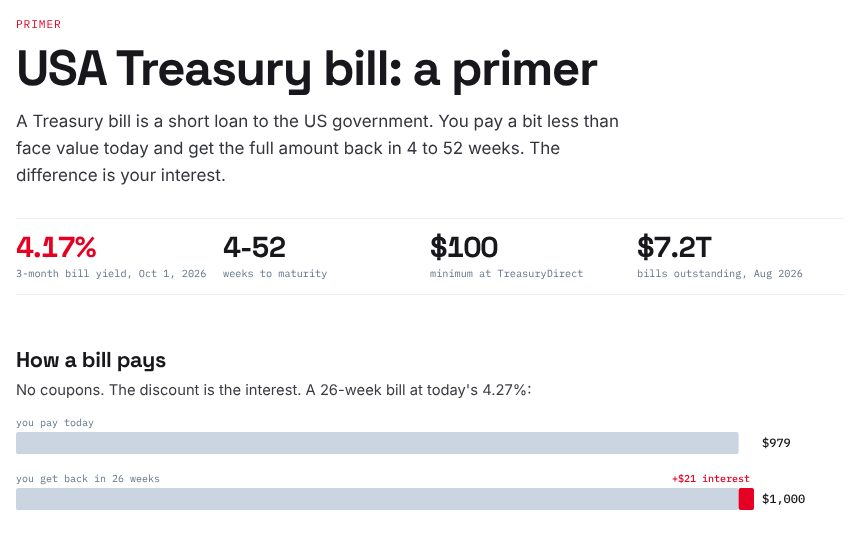
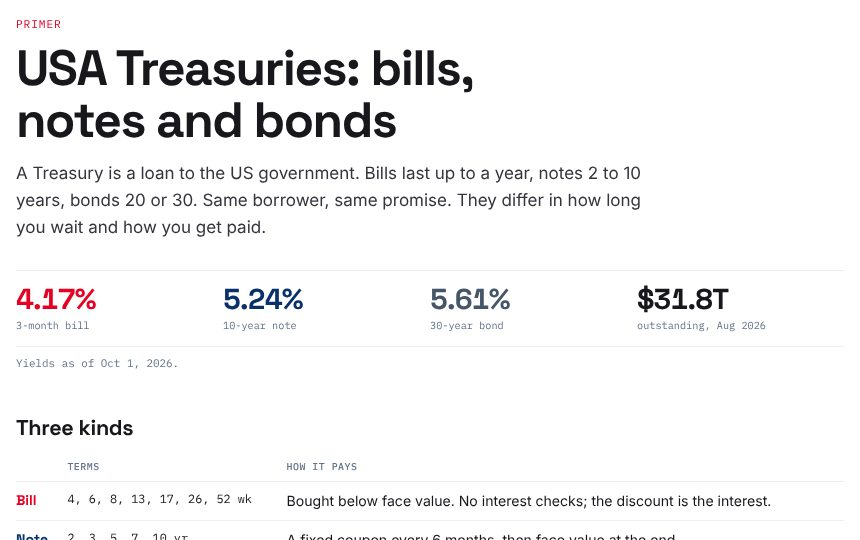
Treasury primer: cover bills, notes and bonds; retitle
Claude-Session: https://claude.ai/code/session_01VA4LwkdaSM29eQoFAYy22u

diff --git a/posts/2026-10-04-treasury-bills/index.html b/posts/2026-10-04-treasury-bills/index.html
@@ -4,14 +4,14 @@
 <meta charset="UTF-8">
 <meta name="viewport" content="width=device-width, initial-scale=1.0">
 <meta name="author" content="Rahul">
-<title>USA Treasury bill: a primer | Rahul's Site</title>
-<meta name="description" content="What a US Treasury bill is, how it pays, what it yields today, how much exists, and 90 years of the 3-month bill rate.">
+<title>USA Treasuries: bills, notes and bonds | Rahul's Site</title>
+<meta name="description" content="What US Treasury bills, notes and bonds are, how each pays you, what they yield today, how their prices move, and 90 years of rates.">
 <link rel="preconnect" href="https://fonts.googleapis.com">
 <link href="https://fonts.googleapis.com/css2?family=Space+Grotesk:wght@500;700&family=IBM+Plex+Mono:wght@400;500&family=Inter:wght@400;500&display=swap" rel="stylesheet">
 <script src="https://cdnjs.cloudflare.com/ajax/libs/d3/7.9.0/d3.min.js"></script>
 <style>
-/* single column on pure white; red marks the bill, navy and slate everything else */
-:root{color-scheme:light;--bg:#ffffff;--ink:#17171C;--muted:#64748b;--rule:#eceef1;--red:#E60023;--navy:#0a3069;--teal:#0d9488;--soft:#f8fafc;
+/* single column on pure white; red = bills, navy = notes, slate = bonds */
+:root{color-scheme:light;--bg:#ffffff;--ink:#17171C;--muted:#64748b;--rule:#eceef1;--red:#E60023;--navy:#0a3069;--slate:#475569;
 --display:'Space Grotesk',system-ui,sans-serif;--body:'Inter',system-ui,sans-serif;--mono:'IBM Plex Mono',ui-monospace,monospace}
 *{margin:0;padding:0;box-sizing:border-box}
 html,body{background:var(--bg)}
@@ -19,23 +19,26 @@ body{color:var(--ink);font-family:var(--body);font-size:17px;line-height:1.6}
 .wrap{max-width:860px;margin:0 auto;padding:56px 16px 64px}
 .k{font-family:var(--mono);font-size:0.7rem;letter-spacing:0.08em;text-transform:uppercase;color:var(--red);margin-bottom:8px}
 h1{font-family:var(--display);font-weight:700;font-size:clamp(2rem,6vw,3.1rem);letter-spacing:-0.03em;line-height:1.05;text-wrap:balance}
-.lede{margin-top:14px;max-width:620px;color:#33343c}
-.nums{display:grid;grid-template-columns:repeat(4,1fr);gap:0;margin:28px 0 8px;border-top:1px solid var(--rule);border-bottom:1px solid var(--rule)}
+.lede{margin-top:14px;max-width:640px;color:#33343c}
+.nums{display:grid;grid-template-columns:repeat(4,1fr);margin:28px 0 8px;border-top:1px solid var(--rule);border-bottom:1px solid var(--rule)}
 .nums>div{padding:14px 12px 12px 0}
 .nums .v{font-family:var(--display);font-weight:700;font-size:1.8rem;letter-spacing:-0.03em;line-height:1;font-variant-numeric:tabular-nums}
-.nums .v.r{color:var(--red)}
 .nums .l{font-family:var(--mono);font-size:0.64rem;color:var(--muted);margin-top:6px;line-height:1.4}
 @media (max-width:640px){.nums{grid-template-columns:1fr 1fr}.nums>div:nth-child(-n+2){border-bottom:1px solid var(--rule)}}
 section{padding-top:44px}
 h2{font-family:var(--display);font-weight:700;font-size:1.35rem;letter-spacing:-0.015em;line-height:1.2;margin-bottom:6px;text-wrap:balance}
-.note{font-size:0.92rem;color:#3a3b44;max-width:620px;margin-bottom:10px}
+.note{font-size:0.92rem;color:#3a3b44;max-width:640px;margin-bottom:10px}
 svg{display:block;width:100%}
 svg text{font-family:var(--mono)}
-.cap{font-family:var(--mono);font-size:0.68rem;color:var(--muted);margin-top:6px;line-height:1.5;max-width:680px}
-.chips{display:flex;flex-wrap:wrap;gap:6px;margin:10px 0 4px}
-.chips span{font-family:var(--mono);font-size:0.72rem;border:1px solid var(--rule);border-radius:999px;padding:3px 10px}
+.cap{font-family:var(--mono);font-size:0.68rem;color:var(--muted);margin-top:6px;line-height:1.5;max-width:700px}
 .legend{display:flex;flex-wrap:wrap;gap:4px 16px;font-family:var(--mono);font-size:0.68rem;color:var(--muted);margin-top:6px}
 .legend i{display:inline-block;width:14px;height:2px;margin-right:6px;vertical-align:3px}
+.kinds{width:100%;border-collapse:collapse;font-size:0.88rem;margin:6px 0 4px}
+.kinds th{font-family:var(--mono);font-weight:500;font-size:0.62rem;text-transform:uppercase;letter-spacing:0.05em;color:var(--muted);text-align:left;padding:6px 10px 6px 0;border-bottom:1px solid var(--rule)}
+.kinds td{padding:9px 10px 9px 0;border-bottom:1px solid var(--rule);vertical-align:top;line-height:1.4}
+.kinds td:first-child{font-family:var(--display);font-weight:700;white-space:nowrap}
+.kinds .terms{font-family:var(--mono);font-size:0.74rem;white-space:nowrap}
+.tw{overflow-x:auto}
 .three{display:grid;grid-template-columns:repeat(3,1fr);gap:24px;margin-top:8px}
 .three .v{font-family:var(--display);font-weight:700;font-size:1.25rem;letter-spacing:-0.015em;line-height:1.15}
 .three .v.r{color:var(--red)}
@@ -49,125 +52,167 @@ svg text{font-family:var(--mono)}
 <div class="wrap">
 
 <div class="k">Primer</div>
-<h1>USA Treasury bill: a primer</h1>
-<p class="lede">A Treasury bill is a short loan to the US government. You pay a bit less than face value today and get the full amount back in 4 to 52 weeks. The difference is your interest.</p>
+<h1>USA Treasuries: bills, notes and bonds</h1>
+<p class="lede">A Treasury is a loan to the US government. Bills last up to a year, notes 2 to 10 years, bonds 20 or 30. Same borrower, same promise. They differ in how long you wait and how you get paid.</p>
 
 <div class="nums">
-  <div><div class="v r" id="n3m">4.17%</div><div class="l">3-month bill yield, Oct 1, 2026</div></div>
-  <div><div class="v">4-52</div><div class="l">weeks to maturity</div></div>
-  <div><div class="v">$100</div><div class="l">minimum at TreasuryDirect</div></div>
-  <div><div class="v">$7.2T</div><div class="l">bills outstanding, Aug 2026</div></div>
+  <div><div class="v" style="color:var(--red)">4.17%</div><div class="l">3-month bill</div></div>
+  <div><div class="v" style="color:var(--navy)">5.24%</div><div class="l">10-year note</div></div>
+  <div><div class="v" style="color:var(--slate)">5.61%</div><div class="l">30-year bond</div></div>
+  <div><div class="v">$31.8T</div><div class="l">outstanding, Aug 2026</div></div>
 </div>
+<p class="cap">Yields as of Oct 1, 2026.</p>
 
 <section>
-  <h2>How a bill pays</h2>
-  <p class="note">No coupons. The discount is the interest. A 26-week bill at today's 4.27%:</p>
-  <svg id="pay"></svg>
+  <h2>Three kinds</h2>
+  <div class="tw"><table class="kinds">
+    <tr><th></th><th>terms</th><th>how it pays</th></tr>
+    <tr><td style="color:var(--red)">Bill</td><td class="terms">4, 6, 8, 13, 17, 26, 52 wk</td><td>Bought below face value. No interest checks; the discount is the interest.</td></tr>
+    <tr><td style="color:var(--navy)">Note</td><td class="terms">2, 3, 5, 7, 10 yr</td><td>A fixed coupon every 6 months, then face value at the end.</td></tr>
+    <tr><td style="color:var(--slate)">Bond</td><td class="terms">20, 30 yr</td><td>Same as a note, just longer.</td></tr>
+  </table></div>
 </section>
 
 <section>
-  <h2>The menu</h2>
-  <div class="chips"><span>4 wk</span><span>6 wk</span><span>8 wk</span><span>13 wk</span><span>17 wk</span><span>26 wk</span><span>52 wk</span></div>
+  <h2>What $1,000 pays you</h2>
+  <p class="note">Every payment over the life of each, bought today at today's yields.</p>
+  <svg id="flows"></svg>
+  <p class="cap">Small ticks are coupons every 6 months. Tall bar is the $1,000 back at the end.</p>
+</section>
+
+<section>
+  <h2>What each pays today</h2>
   <svg id="curve"></svg>
-  <div class="legend"><span><i style="background:var(--red)"></i>Oct 1, 2026</span><span><i style="background:repeating-linear-gradient(90deg,#64748b 0 4px,transparent 4px 7px)"></i>a year earlier</span></div>
-  <p class="cap">Yield by term. A year ago shorter bills paid more, as markets priced in rate cuts. Now longer bills pay more, as they price in hikes.</p>
+  <div class="legend"><span><i style="background:var(--ink)"></i>Oct 1, 2026</span><span><i style="background:repeating-linear-gradient(90deg,#94a3b8 0 4px,transparent 4px 7px)"></i>a year earlier</span></div>
+  <p class="cap">A year ago the curve sagged in the middle, as markets priced in rate cuts. Now it slopes up: everything past 1 month pays more, notes most of all (up 1.1 to 1.3 points).</p>
+</section>
+
+<section>
+  <h2>The catch: price moves if you sell early</h2>
+  <p class="note">If rates rise 1 point tomorrow, what an existing Treasury is worth:</p>
+  <svg id="shock"></svg>
+  <p class="cap">Hold to maturity and none of this matters: you get every payment and the full $1,000. Example: a 10-year note bought a year ago at 4.12% sells for about $920 today.</p>
 </section>
 
 <section>
   <h2>How much exists</h2>
   <svg id="stack"></svg>
-  <p class="cap">Marketable US government debt, Aug 31, 2026: $31.8T. Bills are the short end.</p>
+  <p class="cap">Marketable US government debt, Aug 31, 2026. TIPS adjust for inflation; FRNs pay a floating rate.</p>
 </section>
 
 <section>
-  <h2>90 years of the 3-month bill</h2>
+  <h2>90 years of rates</h2>
   <svg id="hist"></svg>
-  <div class="legend"><span><i style="background:var(--red)"></i>3-month bill yield</span><span><i style="background:#94a3b8"></i>inflation, year over year</span></div>
+  <div class="legend"><span><i style="background:var(--red)"></i>3-month bill</span><span><i style="background:var(--navy)"></i>10-year note</span><span><i style="background:#cbd5e1"></i>inflation</span></div>
   <div class="three" style="margin-top:22px">
     <div><div class="v">62%</div><div class="l">of months since 1948, bills beat inflation</div></div>
     <div><div class="v">38%</div><div class="l">of months since 2000</div></div>
-    <div><div class="v r">+0.4%</div><div class="l">today: 3.7% yield vs 3.3% inflation (Aug)</div></div>
+    <div><div class="v r">+0.4%</div><div class="l">today: 3.7% bill yield vs 3.3% inflation (Aug, monthly averages)</div></div>
   </div>
 </section>
 
 <section>
   <h2>Buying and taxes</h2>
   <div class="three">
-    <div><div class="v">Where</div><div class="l">TreasuryDirect from $100, any brokerage, or a money market fund that holds bills.</div></div>
-    <div><div class="v">Auctions</div><div class="l">Most terms every week, 52-week every four. Bid non-competitively to take the auction rate.</div></div>
-    <div><div class="v">Taxes</div><div class="l">Federal income tax, yes. State and local income tax, no.</div></div>
+    <div><div class="v">Where</div><div class="l">TreasuryDirect from $100, any brokerage, or a fund that holds them.</div></div>
+    <div><div class="v">Auctions</div><div class="l">Bills every week. Notes and bonds every month.</div></div>
+    <div><div class="v">Taxes</div><div class="l">Federal income tax, yes. State and local income tax, no. Same for all three.</div></div>
   </div>
 </section>
 
 <div class="src">
-  Yields: FRED <a href="https://fred.stlouisfed.org/series/DGS3MO">DGS1MO, DGS3MO, DGS6MO, DGS1</a> (constant maturity) and <a href="https://fred.stlouisfed.org/series/TB3MS">TB3MS</a> (monthly, secondary market, since 1934). Inflation: <a href="https://fred.stlouisfed.org/series/CPIAUCSL">CPI</a>. Debt: Treasury <a href="https://fiscaldata.treasury.gov/datasets/monthly-statement-public-debt/">Monthly Statement of the Public Debt</a>, Aug 2026. Terms, minimums, taxes: <a href="https://www.treasurydirect.gov/marketable-securities/treasury-bills/">TreasuryDirect</a>, <a href="https://www.fidelity.com/learning-center/smart-money/treasury-bills-vs-bonds">Fidelity</a>. Data: <a href="tbill.json">tbill.json</a>. Not financial advice.
+  Yields: FRED <a href="https://fred.stlouisfed.org/series/DGS10">DGS1MO to DGS30</a> (constant maturity), <a href="https://fred.stlouisfed.org/series/TB3MS">TB3MS</a> and <a href="https://fred.stlouisfed.org/series/GS10">GS10</a> (monthly). Inflation: <a href="https://fred.stlouisfed.org/series/CPIAUCSL">CPI</a>. Debt: Treasury <a href="https://fiscaldata.treasury.gov/datasets/monthly-statement-public-debt/">Monthly Statement of the Public Debt</a>, Aug 2026. Terms and taxes: <a href="https://www.treasurydirect.gov/marketable-securities/">TreasuryDirect</a>, <a href="https://www.fidelity.com/learning-center/smart-money/treasury-bills-vs-bonds">Fidelity</a>. Price changes assume a new issue priced at today's yield. Data: <a href="tbill.json">tbill.json</a>. Not financial advice.
 </div>
 </div>
 
 <script>
-const C={red:'#E60023',navy:'#0a3069',slate:'#64748b',light:'#cbd5e1',ink:'#17171C',grid:'#f1f2f4'};
+const C={red:'#E60023',navy:'#0a3069',slate:'#475569',light:'#cbd5e1',ink:'#17171C',grid:'#f1f2f4',mut:'#64748b'};
 let D=null;
 const W=id=>document.getElementById(id).parentNode.clientWidth;
 const S=(id,w,h)=>d3.select('#'+id).attr('viewBox',`0 0 ${w} ${h}`).attr('height',h).html('');
 fetch('tbill.json').then(r=>r.json()).then(j=>{const [y,m]=j.start.split('-').map(Number);
-  D={c:j.curve,s:j.tb.map((v,i)=>({date:new Date(y,m-1+i,1),tb:v,inf:j.inf[i]}))};draw()});
+  D={c:j.curve,sh:j.shock,s:j.tb.map((v,i)=>({date:new Date(y,m-1+i,1),tb:v,inf:j.inf[i],ten:j.gs10[i]}))};draw()});
 let t;window.addEventListener('resize',()=>{clearTimeout(t);t=setTimeout(draw,150)});
-function draw(){if(!D)return;pay();curve();stack();hist()}
+function draw(){if(!D)return;flows();curve();shock();stack();hist()}
+const usd=v=>'$'+d3.format(',.0f')(v);
 
-function pay(){
-  const w=W('pay'),narrow=w<560,h=118,s=S('pay',w,h),face=1000,price=1000/(1+D.c.now.DGS6MO/100*182/365);
-  const x=d3.scaleLinear().domain([0,1000]).range([0,w-(narrow?64:90)]);
-  const row=(y,lab,val,fillW,color,extra)=>{
-    s.append('text').attr('x',0).attr('y',y-6).attr('font-size',10).attr('fill',C.slate).text(lab);
-    s.append('rect').attr('x',0).attr('y',y).attr('height',22).attr('width',x(fillW)).attr('fill',color).attr('rx',2);
-    if(extra)s.append('rect').attr('x',x(fillW)).attr('y',y).attr('height',22).attr('width',x(face)-x(fillW)).attr('fill',C.red).attr('rx',2);
-    s.append('text').attr('x',x(face)+8).attr('y',y+15).attr('font-size',12).attr('font-weight',500).attr('fill',C.ink).text(val)};
-  row(20,'you pay today','$'+price.toFixed(0),price,C.light,false);
-  row(76,'you get back in 26 weeks','$1,000',price,C.light,true);
-  const g=face-price;
-  s.append('text').attr('x',x(face)-4).attr('y',76-6).attr('text-anchor','end').attr('font-size',10).attr('font-weight',500).attr('fill',C.red).text('+$'+g.toFixed(0)+' interest');
+function flows(){
+  const w=W('flows'),narrow=w<560,rh=62,m={l:narrow?44:56,r:narrow?74:110,t:8,b:22},h=m.t+3*rh+m.b,s=S('flows',w,h);
+  const x=d3.scaleLinear().domain([0,30]).range([m.l,w-m.r]);
+  const n=D.c.now,price=1000/(1+n.DGS6MO/100*182/365);
+  const rows=[
+    {lab:'Bill',sub:'26 wk',c:C.red,yrs:0.5,cpn:0,tot:1000,gain:1000-price,paid:price},
+    {lab:'Note',sub:'10 yr',c:C.navy,yrs:10,cpn:n.DGS10/2*10,tot:1000+20*n.DGS10/2*10,paid:1000},
+    {lab:'Bond',sub:'30 yr',c:C.slate,yrs:30,cpn:n.DGS30/2*10,tot:1000+60*n.DGS30/2*10,paid:1000}];
+  const yb=d3.scaleLinear().domain([0,1000]).range([0,rh-22]);
+  [0,10,20,30].forEach(v=>s.append('text').attr('x',x(v)).attr('y',h-6).attr('text-anchor','middle').attr('font-size',9).attr('fill',C.mut).text(v?v+' yr':'today'));
+  rows.forEach((r,i)=>{const base=m.t+(i+1)*rh-6;
+    s.append('line').attr('x1',x(0)).attr('x2',x(r.yrs)).attr('y1',base).attr('y2',base).attr('stroke',C.light);
+    s.append('text').attr('x',m.l-10).attr('y',base-14).attr('text-anchor','end').attr('font-size',11).attr('font-weight',500).attr('fill',r.c).text(r.lab);
+    s.append('text').attr('x',m.l-10).attr('y',base-2).attr('text-anchor','end').attr('font-size',9).attr('fill',C.mut).text(r.sub);
+    if(r.cpn){for(let k=1;k<=r.yrs*2;k++){const xx=x(k/2);s.append('rect').attr('x',xx-0.8).attr('width',1.6).attr('y',base-yb(r.cpn)*4).attr('height',yb(r.cpn)*4).attr('fill',r.c).attr('opacity',0.55)}}
+    s.append('rect').attr('x',x(r.yrs)-2).attr('width',4).attr('y',base-yb(1000)).attr('height',yb(1000)).attr('fill',r.c);
+    const tx=w-m.r+10;
+    s.append('text').attr('x',tx).attr('y',base-14).attr('font-size',11).attr('font-weight',500).attr('fill',r.c).text(usd(r.tot));
+    s.append('text').attr('x',tx).attr('y',base-2).attr('font-size',9).attr('fill',C.mut).text(r.cpn?(narrow?usd(r.cpn)+' x '+r.yrs*2:usd(r.cpn)+' every 6 mo'):'paid '+usd(r.paid));
+  });
 }
 
 function curve(){
-  const w=W('curve'),narrow=w<560,h=narrow?220:250,m={l:36,r:narrow?44:56,t:16,b:26},s=S('curve',w,h);
-  const terms=[['DGS1MO','1 mo',1],['DGS3MO','3 mo',3],['DGS6MO','6 mo',6],['DGS1','12 mo',12]];
-  const x=d3.scaleLinear().domain([1,12]).range([m.l,w-m.r]),y=d3.scaleLinear().domain([3.4,4.7]).range([h-m.b,m.t]);
-  [3.5,4,4.5].forEach(v=>{s.append('line').attr('x1',m.l).attr('x2',w-m.r).attr('y1',y(v)).attr('y2',y(v)).attr('stroke',C.grid);
-    s.append('text').attr('x',m.l-6).attr('y',y(v)+3).attr('text-anchor','end').attr('font-size',9).attr('fill',C.slate).text(v.toFixed(1)+'%')});
-  terms.forEach(([k,l,mo])=>s.append('text').attr('x',x(mo)).attr('y',h-8).attr('text-anchor','middle').attr('font-size',9).attr('fill',C.slate).text(l));
+  const w=W('curve'),narrow=w<560,h=narrow?250:280,m={l:36,r:12,t:42,b:26},s=S('curve',w,h);
+  const T=[['DGS1MO','1m'],['DGS3MO','3m'],['DGS6MO','6m'],['DGS1','1y'],['DGS2','2y'],['DGS5','5y'],['DGS10','10y'],['DGS20','20y'],['DGS30','30y']];
+  const x=d3.scalePoint().domain(T.map(t=>t[0])).range([m.l+8,w-m.r-14]),y=d3.scaleLinear().domain([3.3,5.9]).range([h-m.b,m.t]);
+  const band=(a,b,lab,c)=>{const x0=x(a)-(a==='DGS1MO'?8:x.step()/2),x1=x(b)+(b==='DGS30'?14:x.step()/2);
+    s.append('rect').attr('x',x0).attr('y',m.t-26).attr('width',x1-x0).attr('height',3).attr('fill',c);
+    s.append('text').attr('x',x0).attr('y',m.t-31).attr('font-size',9).attr('fill',c).attr('font-weight',500).text(lab)};
+  band('DGS1MO','DGS1','bills',C.red);band('DGS2','DGS10','notes',C.navy);band('DGS20','DGS30','bonds',C.slate);
+  [3.5,4,4.5,5,5.5].forEach(v=>{s.append('line').attr('x1',m.l).attr('x2',w-m.r).attr('y1',y(v)).attr('y2',y(v)).attr('stroke',C.grid);
+    s.append('text').attr('x',m.l-6).attr('y',y(v)+3).attr('text-anchor','end').attr('font-size',9).attr('fill',C.mut).text(v.toFixed(1)+'%')});
+  T.forEach(([k,l])=>s.append('text').attr('x',x(k)).attr('y',h-8).attr('text-anchor','middle').attr('font-size',9).attr('fill',C.mut).text(l));
   const ln=d3.line().x(d=>x(d[0])).y(d=>y(d[1]));
-  [['ya',C.slate,'5,4',1.6],['now',C.red,null,2.4]].forEach(([k,c,da,sw])=>{const pts=terms.map(([id,,mo])=>[mo,D.c[k][id]]);
-    s.append('path').attr('d',ln(pts)).attr('fill','none').attr('stroke',c).attr('stroke-width',sw).attr('stroke-dasharray',da);
-    pts.forEach(p=>s.append('circle').attr('cx',x(p[0])).attr('cy',y(p[1])).attr('r',k==='now'?3.6:2.6).attr('fill',k==='now'?c:'#fff').attr('stroke',c).attr('stroke-width',1.4));
-    if(k==='now')pts.forEach((p,i)=>s.append('text').attr('x',x(p[0])).attr('y',(D.c.ya[terms[i][0]]>p[1]-0.02&&D.c.ya[terms[i][0]]<p[1]+0.15)?y(p[1])+16:y(p[1])-9).attr('text-anchor',i===pts.length-1?'end':i===0?'start':'middle').attr('font-size',9.5).attr('font-weight',500).attr('fill',c).text(p[1].toFixed(2)+'%'));
-    const L=pts[pts.length-1];if(k==='ya')s.append('text').attr('x',x(L[0])+6).attr('y',y(L[1])+3).attr('font-size',9).attr('fill',c).text(L[1].toFixed(2)+'%');
-    if(k==='now')s.append('text').attr('x',x(L[0])+6).attr('y',y(L[1])+3).attr('font-size',9).attr('font-weight',500).attr('fill',c).text('now')});
+  const col=k=>['DGS1MO','DGS3MO','DGS6MO','DGS1'].includes(k)?C.red:['DGS20','DGS30'].includes(k)?C.slate:C.navy;
+  const ya=T.map(([k])=>[k,D.c.ya[k]]),nw=T.map(([k])=>[k,D.c.now[k]]);
+  s.append('path').attr('d',ln(ya)).attr('fill','none').attr('stroke','#94a3b8').attr('stroke-width',1.5).attr('stroke-dasharray','5,4');
+  ya.forEach(p=>s.append('circle').attr('cx',x(p[0])).attr('cy',y(p[1])).attr('r',2.4).attr('fill','#fff').attr('stroke','#94a3b8'));
+  s.append('path').attr('d',ln(nw)).attr('fill','none').attr('stroke',C.ink).attr('stroke-width',1.4).attr('opacity',0.35);
+  nw.forEach((p,i)=>{s.append('circle').attr('cx',x(p[0])).attr('cy',y(p[1])).attr('r',4).attr('fill',col(p[0]));
+    if(!narrow||i%2===0||i===nw.length-1)s.append('text').attr('x',x(p[0])).attr('y',i===0?y(p[1])+16:y(p[1])-9).attr('text-anchor',i===nw.length-1?'end':i===0?'start':'middle').attr('font-size',9).attr('font-weight',500).attr('fill',col(p[0])).text(p[1].toFixed(2))});
+}
+
+function shock(){
+  const w=W('shock'),narrow=w<560,rows=[['DGS3MO','3-month bill',C.red],['DGS1','1-year bill',C.red],['DGS2','2-year note',C.navy],['DGS5','5-year note',C.navy],['DGS10','10-year note',C.navy],['DGS30','30-year bond',C.slate]];
+  const rh=24,m={l:narrow?84:100,r:52,t:4,b:4},h=m.t+rows.length*rh+m.b,s=S('shock',w,h);
+  const x=d3.scaleLinear().domain([0,14]).range([m.l,w-m.r]);
+  rows.forEach(([k,l,c],i)=>{const v=-D.sh[k],yy=m.t+i*rh;
+    s.append('text').attr('x',m.l-8).attr('y',yy+15).attr('text-anchor','end').attr('font-size',10).attr('fill',C.ink).text(l);
+    s.append('rect').attr('x',m.l).attr('y',yy+5).attr('height',14).attr('width',Math.max(1.5,x(v)-m.l)).attr('fill',c).attr('rx',2);
+    s.append('text').attr('x',x(v)+6).attr('y',yy+16).attr('font-size',10).attr('font-weight',500).attr('fill',c).text('-'+v.toFixed(1)+'%')});
 }
 
 function stack(){
-  const w=W('stack'),narrow=w<560,h=narrow?96:84,s=S('stack',w,h);
-  const parts=[['Bills',7.248,C.red],['Notes',16.218,C.navy],['Bonds',5.525,'#475569'],['TIPS',2.153,'#94a3b8'],['FRNs',0.680,'#cbd5e1']];
+  const w=W('stack'),narrow=w<560,h=78,s=S('stack',w,h);
+  const parts=[['Bills',7.248,C.red],['Notes',16.218,C.navy],['Bonds',5.525,C.slate],['TIPS',2.153,'#94a3b8'],['FRNs',0.680,C.light]];
   const tot=d3.sum(parts,p=>p[1]),x=d3.scaleLinear().domain([0,tot]).range([0,w]);let acc=0;
   parts.forEach(([n,v,c],i)=>{const x0=x(acc),bw=x(v)-1,pct=Math.round(v/tot*100);
-    s.append('rect').attr('x',x0).attr('y',26).attr('width',bw).attr('height',26).attr('fill',c);
-    if(i===0)s.append('text').attr('x',x0).attr('y',18).attr('font-size',11).attr('font-weight',500).attr('fill',C.red).text(`Bills $${v.toFixed(1)}T \u00b7 ${pct}%`);
-    else if(bw>(narrow?48:80))s.append('text').attr('x',x0+6).attr('y',43).attr('font-size',9.5).attr('fill','#fff').text(`${n} ${pct}%`);
+    s.append('rect').attr('x',x0).attr('y',8).attr('width',bw).attr('height',30).attr('fill',c);
+    if(bw>(narrow?44:60))s.append('text').attr('x',x0+6).attr('y',27).attr('font-size',9.5).attr('fill','#fff').attr('font-weight',500).text(`${n} ${pct}%`);
+    if(i<3&&!narrow)s.append('text').attr('x',x0+6).attr('y',54).attr('font-size',9).attr('fill',C.mut).text('$'+v.toFixed(1)+'T');
     acc+=v});
-  if(narrow)s.append('text').attr('x',w).attr('y',70).attr('text-anchor','end').attr('font-size',9).attr('fill',C.slate).text('TIPS 7%, FRNs 2%');
-  else s.append('text').attr('x',w).attr('y',70).attr('text-anchor','end').attr('font-size',9).attr('fill',C.slate).text('TIPS = inflation-protected, FRNs = floating-rate notes');
+  s.append('text').attr('x',w).attr('y',narrow?56:70).attr('text-anchor','end').attr('font-size',9).attr('fill',C.mut).text('TIPS 7%, FRNs 2%');
 }
 
 function hist(){
   const w=W('hist'),narrow=w<560,h=narrow?260:320,m={l:34,r:narrow?42:50,t:16,b:24},s=S('hist',w,h);
   const d=D.s,x=d3.scaleTime().domain([d[0].date,d[d.length-1].date]).range([m.l,w-m.r]),y=d3.scaleLinear().domain([-4,18]).range([h-m.b,m.t]);
-  [0,5,10,15].forEach(v=>{s.append('line').attr('x1',m.l).attr('x2',w-m.r).attr('y1',y(v)).attr('y2',y(v)).attr('stroke',v?C.grid:C.slate).attr('stroke-width',v?1:0.8);
-    s.append('text').attr('x',m.l-6).attr('y',y(v)+3).attr('text-anchor','end').attr('font-size',9).attr('fill',C.slate).text(v+'%')});
-  d3.range(1940,2030,narrow?20:10).forEach(yr=>s.append('text').attr('x',x(new Date(yr,0,1))).attr('y',h-6).attr('text-anchor','middle').attr('font-size',9).attr('fill',C.slate).text(yr));
-  const lnI=d3.line().defined(r=>r.inf!=null&&r.inf>-4).x(r=>x(r.date)).y(r=>y(Math.min(18,r.inf)));
-  s.append('path').attr('d',lnI(d)).attr('fill','none').attr('stroke','#94a3b8').attr('stroke-width',1);
-  s.append('path').attr('d',d3.line().x(r=>x(r.date)).y(r=>y(r.tb))(d)).attr('fill','none').attr('stroke',C.red).attr('stroke-width',1.8);
-  const L=d[d.length-1];s.append('circle').attr('cx',x(L.date)).attr('cy',y(L.tb)).attr('r',3.5).attr('fill',C.red);
-  s.append('text').attr('x',x(L.date)+6).attr('y',y(L.tb)+3).attr('font-size',10).attr('font-weight',500).attr('fill',C.red).text(L.tb.toFixed(1)+'%');
+  [0,5,10,15].forEach(v=>{s.append('line').attr('x1',m.l).attr('x2',w-m.r).attr('y1',y(v)).attr('y2',y(v)).attr('stroke',v?C.grid:C.mut).attr('stroke-width',v?1:0.8);
+    s.append('text').attr('x',m.l-6).attr('y',y(v)+3).attr('text-anchor','end').attr('font-size',9).attr('fill',C.mut).text(v+'%')});
+  d3.range(1940,2030,narrow?20:10).forEach(yr=>s.append('text').attr('x',x(new Date(yr,0,1))).attr('y',h-6).attr('text-anchor','middle').attr('font-size',9).attr('fill',C.mut).text(yr));
+  s.append('path').attr('d',d3.line().defined(r=>r.inf!=null&&r.inf>-4).x(r=>x(r.date)).y(r=>y(Math.min(18,r.inf)))(d)).attr('fill','none').attr('stroke',C.light).attr('stroke-width',1);
+  s.append('path').attr('d',d3.line().defined(r=>r.ten!=null).x(r=>x(r.date)).y(r=>y(r.ten))(d)).attr('fill','none').attr('stroke',C.navy).attr('stroke-width',1.6);
+  s.append('path').attr('d',d3.line().x(r=>x(r.date)).y(r=>y(r.tb))(d)).attr('fill','none').attr('stroke',C.red).attr('stroke-width',1.6);
+  const L=d[d.length-1],ends=[{v:L.tb,c:C.red},{v:L.ten,c:C.navy}].sort((a,b)=>b.v-a.v);
+  ends.forEach((e,i)=>{s.append('circle').attr('cx',x(L.date)).attr('cy',y(e.v)).attr('r',3.2).attr('fill',e.c);
+    s.append('text').attr('x',x(L.date)+6).attr('y',y(e.v)+(i===0?-1:9)).attr('font-size',10).attr('font-weight',500).attr('fill',e.c).text(e.v.toFixed(1)+'%')});
   const pk=d.reduce((a,r)=>r.tb>a.tb?r:a);
   s.append('text').attr('x',x(pk.date)+6).attr('y',y(pk.tb)+3).attr('font-size',9).attr('fill',C.red).text('16.3% in 1981');
 }

diff --git a/index.html b/index.html
@@ -217,8 +217,8 @@ footer a:hover{color:var(--cobalt);border-color:var(--cobalt)}
   <div id="entries" hidden>
 <a class="entry" data-date="2026-10-04" data-pin="0" data-tags="economics" href="posts/2026-10-04-treasury-bills/">
   <div class="meta"><span>[2026-10-04]</span><span class="tag">Economics</span></div>
-  <h2>USA Treasury bill: a primer</h2>
-  <p>What a T-bill is, how the discount pays you, today's yields by term, how much exists, and 90 years of the 3-month rate.</p>
+  <h2>USA Treasuries: bills, notes and bonds</h2>
+  <p>What each one is, what $1,000 pays you, today's yields by term, how prices move if you sell early, and 90 years of rates.</p>
 </a>
 <a class="entry" data-date="2026-10-04" data-pin="0" data-tags="economics" href="posts/2026-10-04-the-jobs-number/">
   <div class="meta"><span>[2026-10-04]</span><span class="tag">Economics</span></div>
